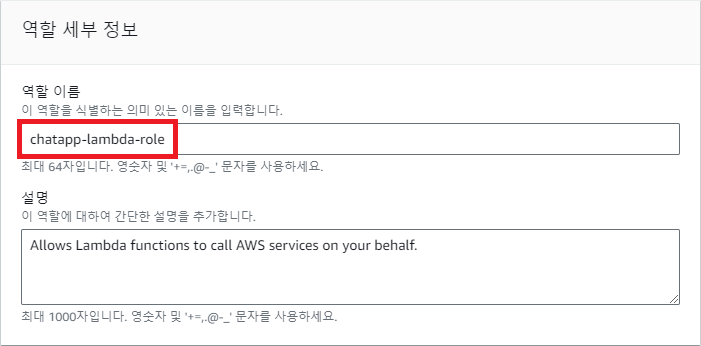
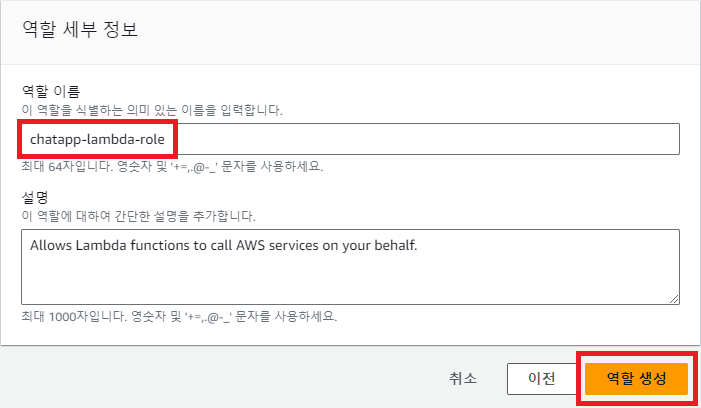
1

diff --git a/STUDY+RND/AWS/Chat (API+Lambda+DynamoDB)/1. Build Serverless Chat App with Amazon API Gateway, WebSocket API and AWS Lambda.md b/STUDY+RND/AWS/Chat (API+Lambda+DynamoDB)/1. Build Serverless Chat App with Amazon API Gateway, WebSocket API and AWS Lambda.md
@@ -121,5 +121,5 @@
         > - ***AmazonAPIGatewayInvokeFullAccess***
         > - ***AmazonDynamoDBFullAccess***
         > - ***CloudWatchFullAccess***
-    - ***"역할 이름 입력"*** > ***"역할 만들기"***
+    - ***"역할 이름 입력"*** > *chatapp-lambda-role* > ***"역할 생성"***
         > ![](https://github.com/icodes-studio/wiki/blob/main/STUDY%2BRND/AWS/Chat%20(API%2BLambda%2BDynamoDB)/Assets/4.png)
